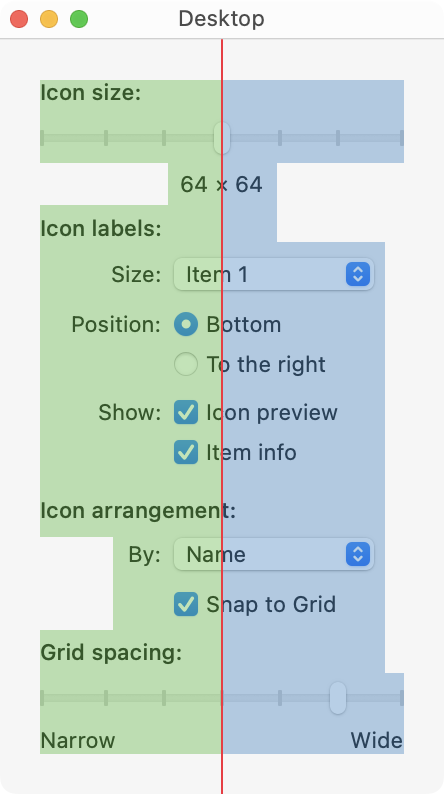
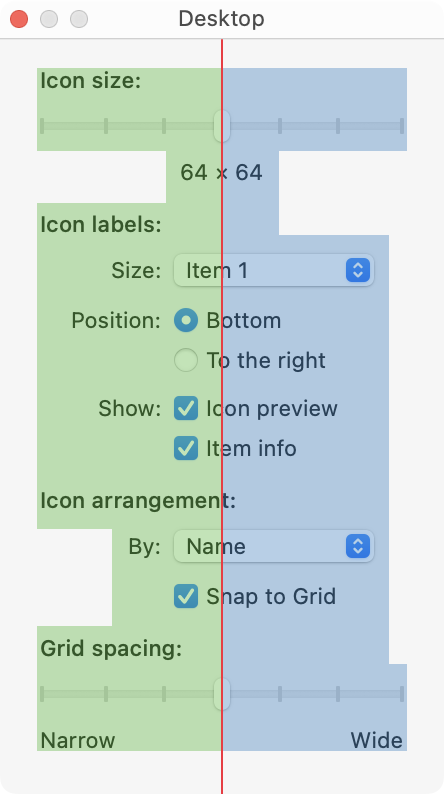
Updating illustrations for Small Control Layout

diff --git a/hig/mac/layouts/index.html b/hig/mac/layouts/index.html
@@ -244,14 +244,6 @@
 					
 					<br>
 					
-					<img srcset="images/smallcontrolsconsistentwidths.png, 
-								 images/smallcontrolsconsistentwidths.png 2x" 
-						 src="images/smallcontrolsconsistentwidths.png"
-						 style="max-width: 100%;
-						 		padding-top: 10px; 
-						 		padding-bottom: 20px;" 
-						 alt="" >
-					
 					<p><b>General margins and spacing</b></p>
 					<ul>
 						<li>The section text labels are right-aligned and their stacked controls are left-aligned.</li>
@@ -276,6 +268,19 @@
 							For example, use 8 points between the label "Icon labels:" and the first row below it.</li>
 					</ul>
 					
+					<img srcset="images/smallcontrolsvertspacing.png, 
+								 images/smallcontrolsvertspacing.png 2x" 
+						 src="images/smallcontrolsvertspacing.png"
+						 style="max-width: 100%;
+						 		padding-top: 10px; 
+						 		padding-bottom: 20px;" 
+						 alt="" >
+					
+					<p><b>Additional considerations</b></p>
+					<ul>
+						<li>Similar stacked controls should have similar widths even if they're in different sections.</li>
+					</ul>
+					
 					<img srcset="images/smallcontrolsconsistentwidths.png, 
 								 images/smallcontrolsconsistentwidths.png 2x" 
 						 src="images/smallcontrolsconsistentwidths.png"
@@ -283,7 +288,6 @@
 						 		padding-top: 10px; 
 						 		padding-bottom: 20px;" 
 						 alt="" >
-					
 					
 					<h5>Layout Example for Mini Controls</h5>
 					
